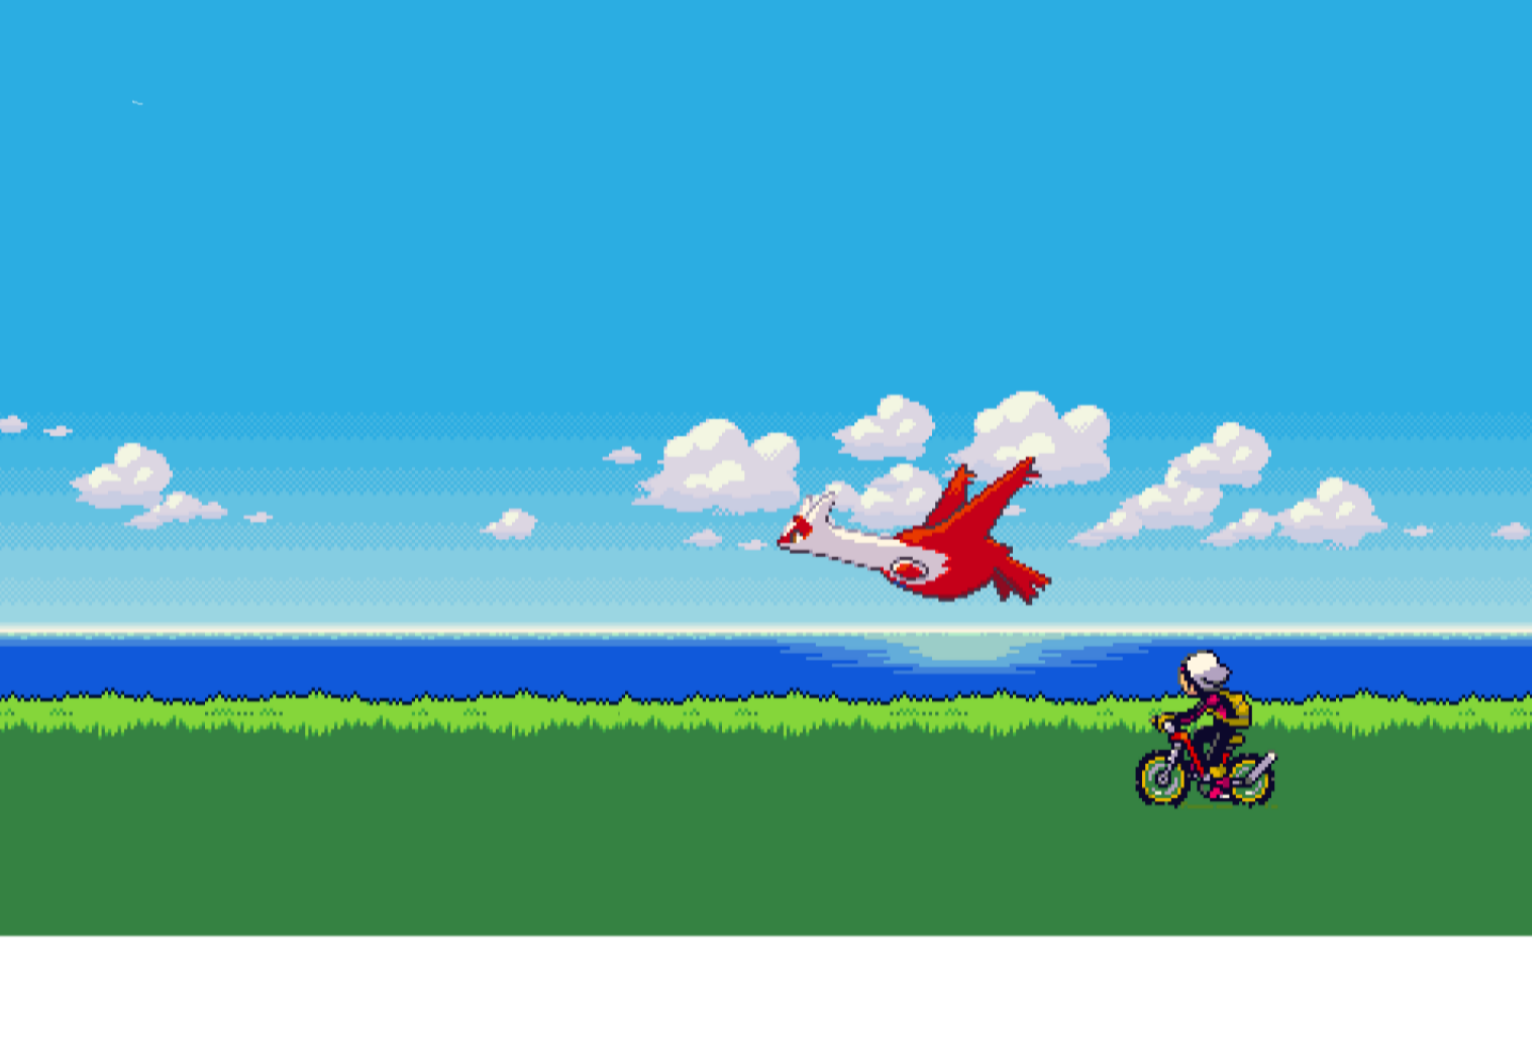
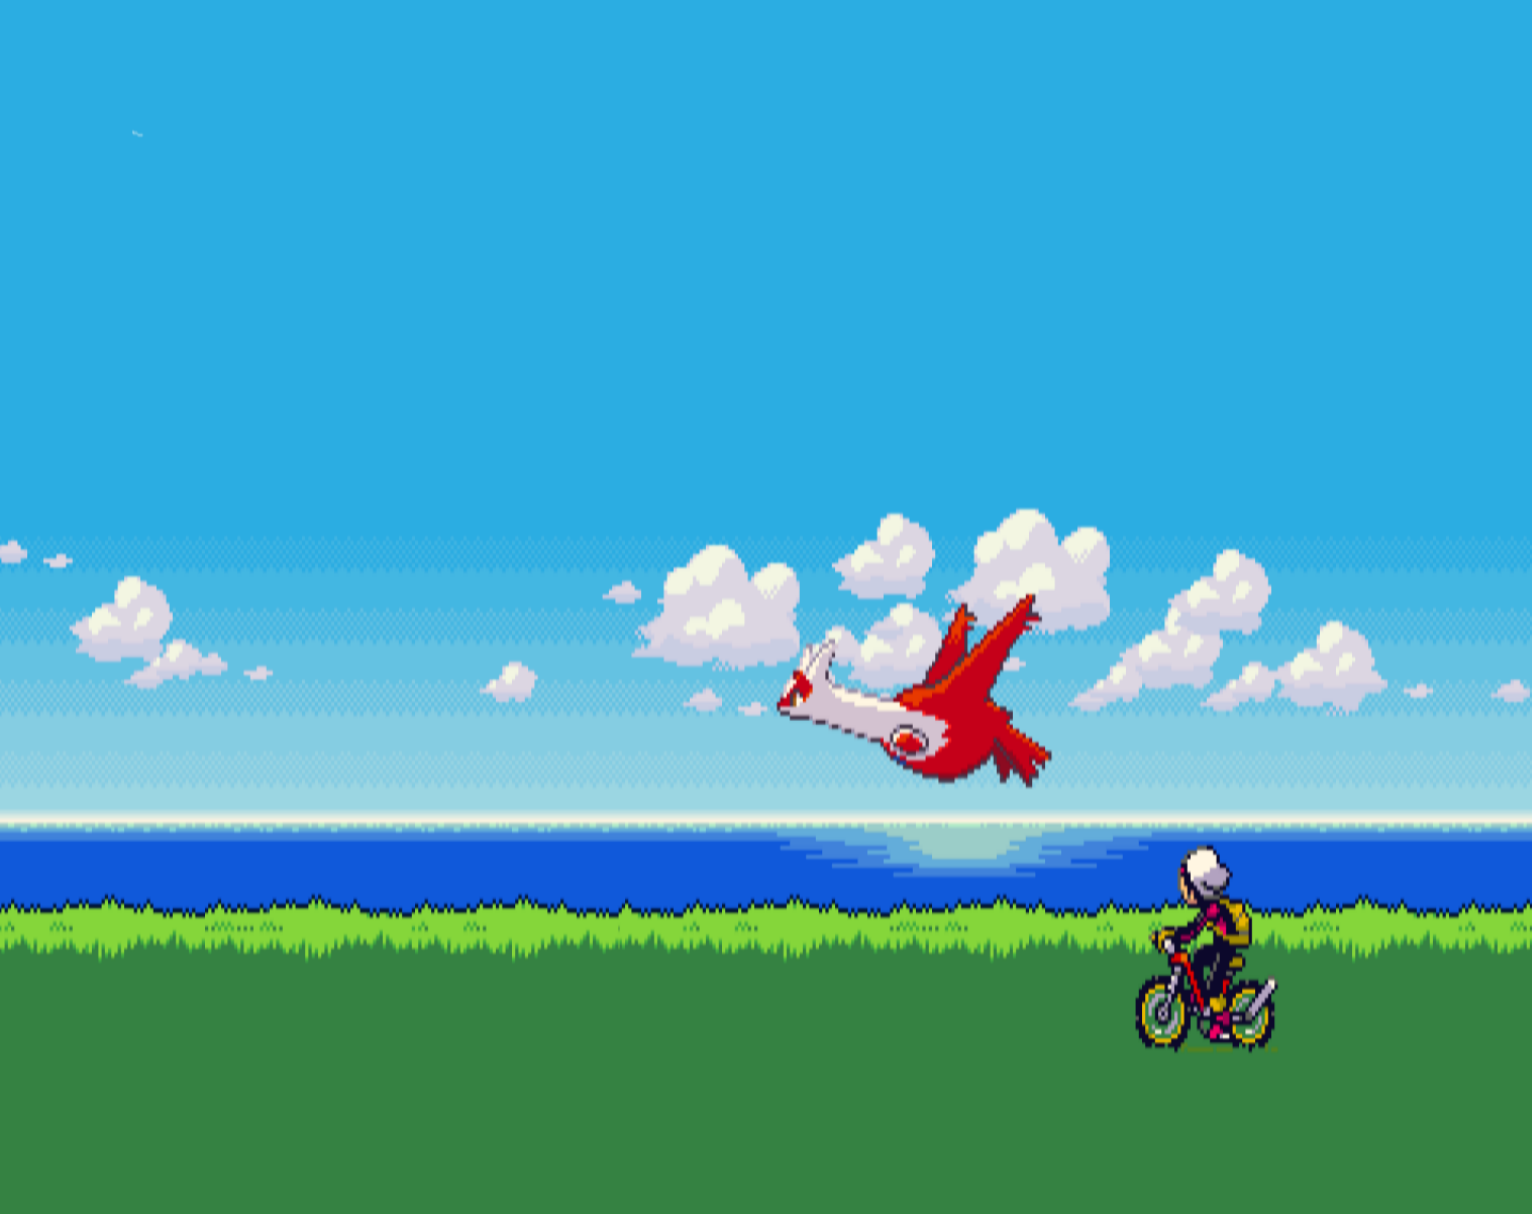
Modified background-image style to make it responsive

diff --git a/index.css b/index.css
@@ -1,13 +1,9 @@
 body{
-    background-image: url("background.png");
+    background-image: url("/assets/background.png");
     background-size: cover;
     background-repeat: no-repeat;
     background-attachment: fixed;
-}
-.bg{
-    width: 50px;
-    padding: 40px;
-    margin: 100px auto;
+    background-size: 100% 100%;
 }
 p{
     font-size: 25px;

diff --git a/index.html b/index.html
@@ -12,7 +12,7 @@
 
 <body>
     <head>
-        <img src="pokemon-logo.png" alt="The Pokémon logo" class="pokemon-logo">
+        <img src="/assets/pokemon-logo.png" alt="The Pokémon logo" class="pokemon-logo">
     </head>
     
     <div class="bg"></div>
